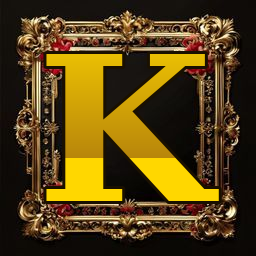
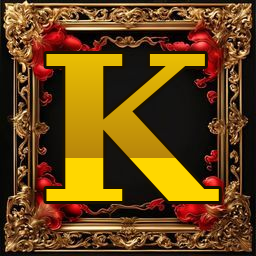
牌面模板統一：全部 13 張改用 template_mid 底板

diff --git a/art/scripts/generate_symbols.py b/art/scripts/generate_symbols.py
@@ -11,10 +11,10 @@ OUTPUT_DIR = os.path.join(BASE_DIR, "assets")
 FONT_PATH = "/usr/share/fonts/truetype/dejavu/DejaVuSerif-Bold.ttf"
 
 CARDS = [
-    ("CD-01_ace.png", "A", "high"),
-    ("CD-02_king.png", "K", "high"),
-    ("CD-03_queen.png", "Q", "high"),
-    ("CD-04_jack.png", "J", "high"),
+    ("CD-01_ace.png", "A", "mid"),
+    ("CD-02_king.png", "K", "mid"),
+    ("CD-03_queen.png", "Q", "mid"),
+    ("CD-04_jack.png", "J", "mid"),
     ("CD-05_num2.png", "2", "mid"),
     ("CD-06_num3.png", "3", "mid"),
     ("CD-07_num4.png", "4", "mid"),
